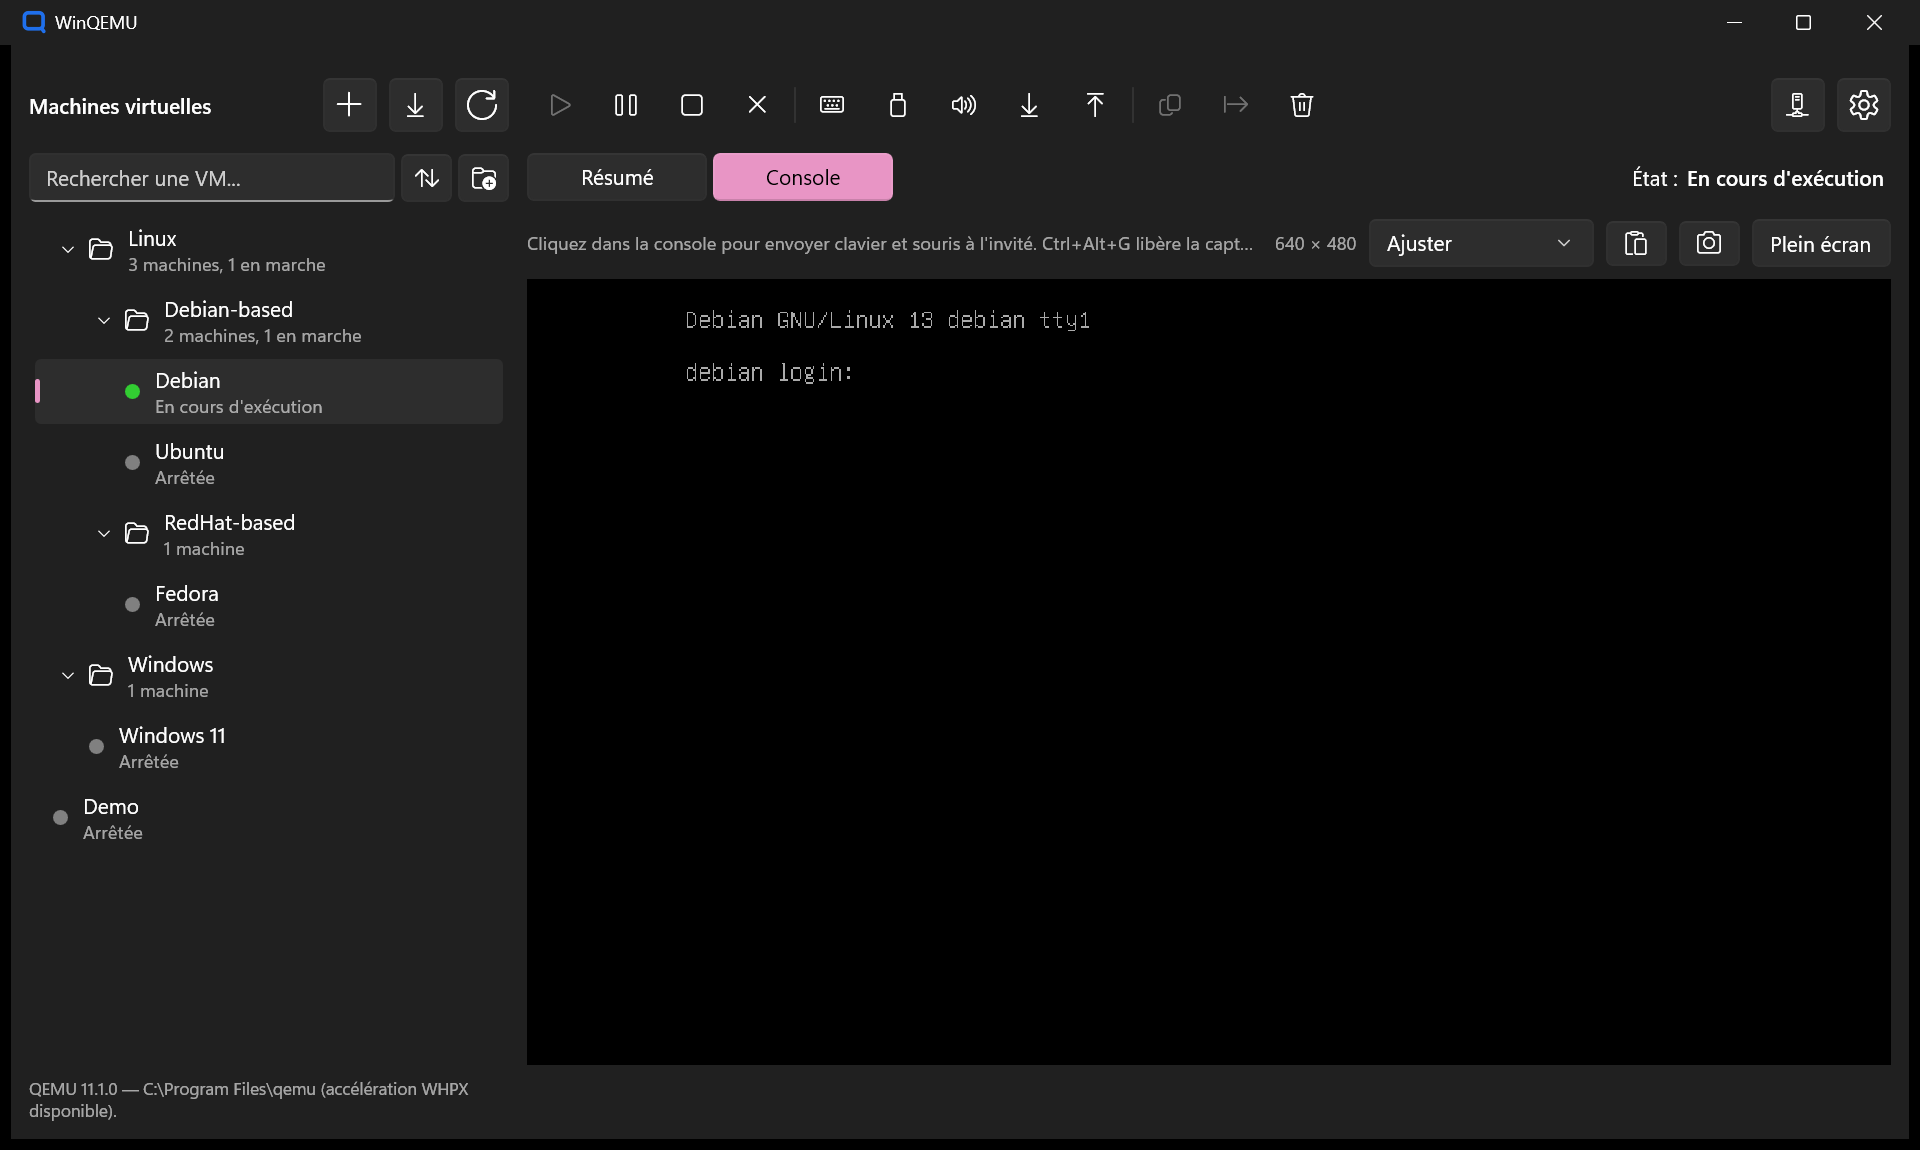
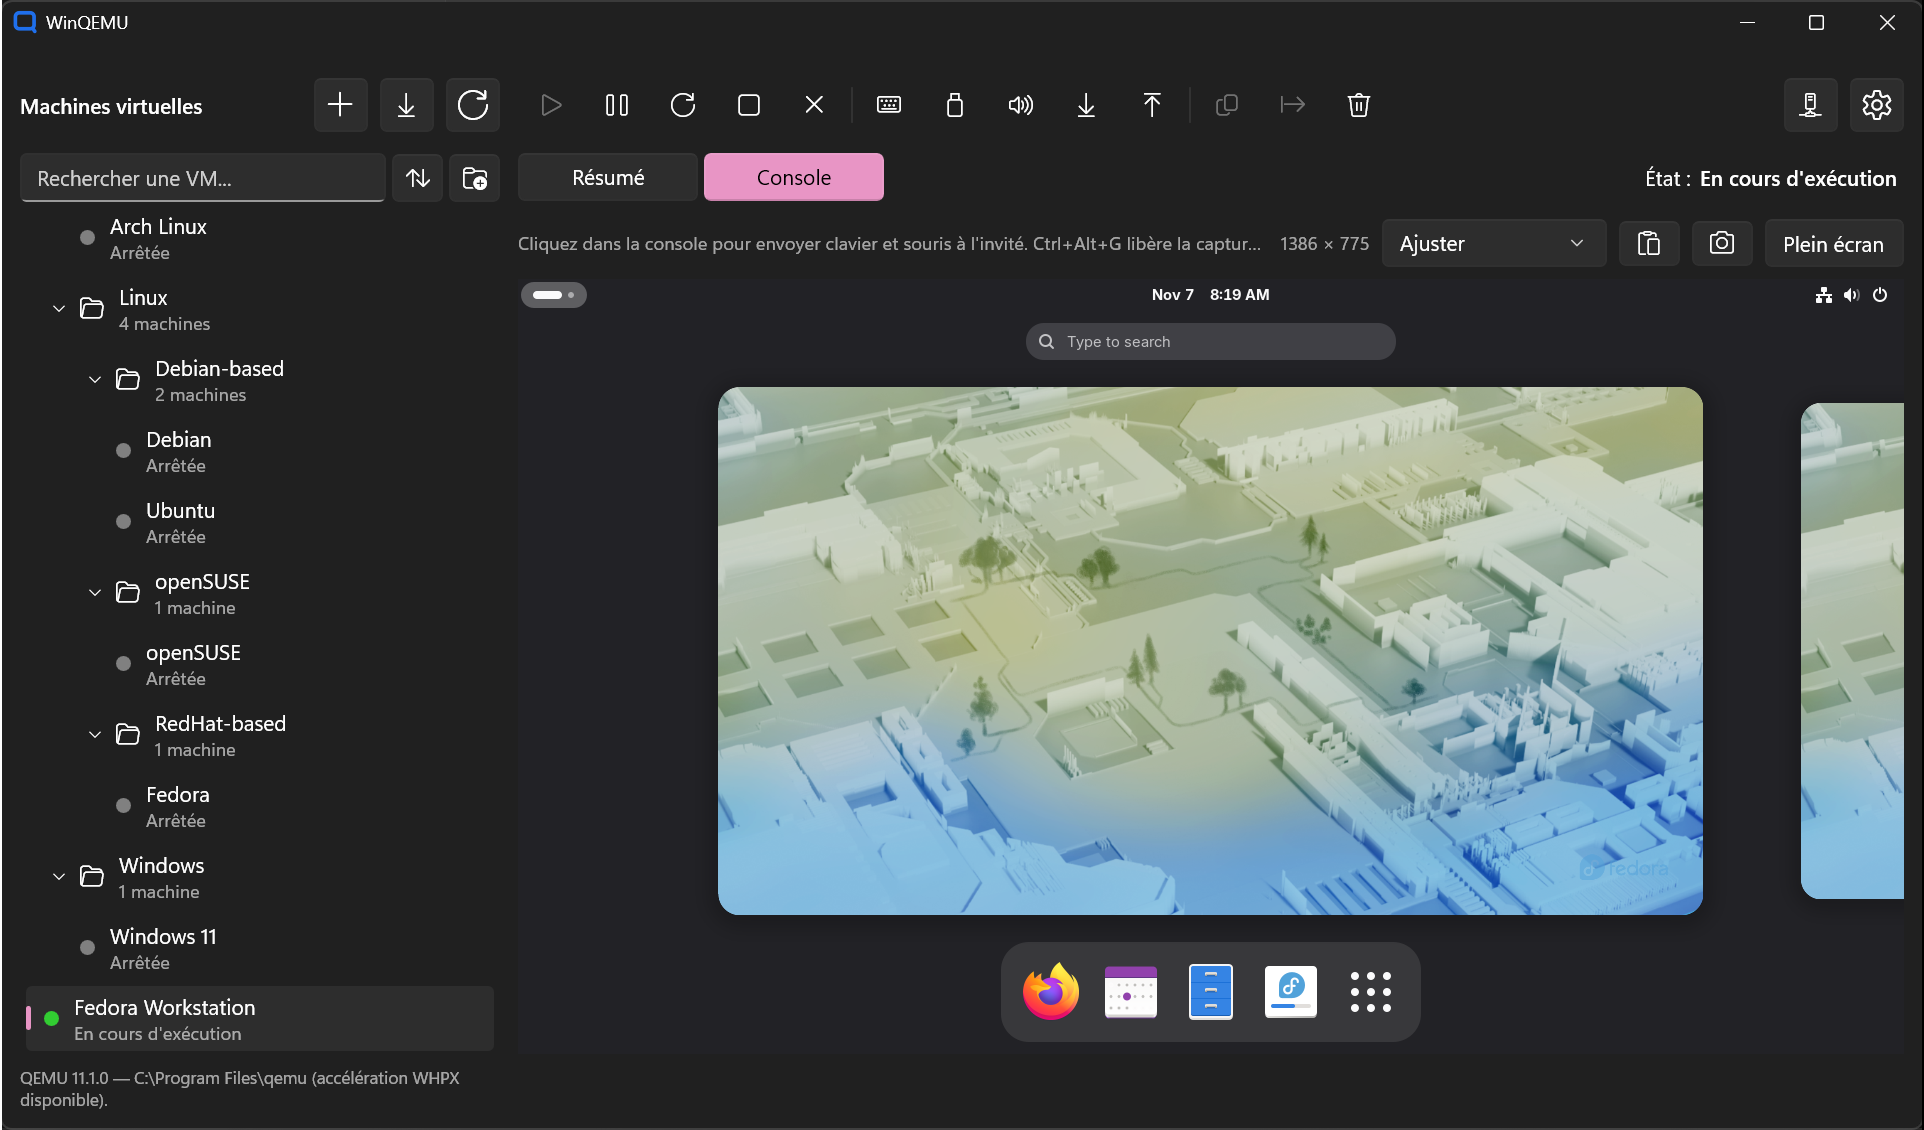
Refresh the screenshots and add the creation wizard
The summary and the console show the current toolbar and a GNOME
desktop; a new screenshot shows an unattended installation with the
choice of desktop, in the READMEs and as the Store's third image.

diff --git a/packaging/store/README.md b/packaging/store/README.md
@@ -35,7 +35,7 @@ What WinQEMU needs on the Store, prepared but not submitted. The background is i
    - Age ratings: the questionnaire (no user-generated content shared, no purchases).
    - Packages: the `.msix`.
    - Store listings: English (United States) and French (France), from the two listing files. Screenshots at least
-     1366 x 768: `docs/images/summary-*.png` and `console-*.png` (1920 x 1150); the snapshot tree (850 x 830) is too small.
+     1366 x 768: `docs/images/summary-*.png`, `console-*.png` and `wizard-*.png` (1924 x 1130); the snapshot tree (850 x 830) is too small.
      Rather than pasting: **Export listings**, then
      `pwsh ./packaging/store/New-ListingImport.ps1 -Export <exported .csv>`, then **Import listings**, **Import folder**,
      `artifacts\store\listing\WinQEMU-listing`. The export comes first because its Field, ID and Type columns must come

diff --git a/README.fr.md b/README.fr.md
@@ -31,6 +31,8 @@ l'accélération matérielle de la plateforme d'hyperviseur Windows (WHPX).
   - Debian, Fedora et openSUSE avec le bureau de votre choix (GNOME, KDE Plasma, Xfce, Cinnamon, MATE, LXQt), ou en
     console avec SSH ;
   - outils invités installés d'office.
+
+  ![L'assistant de création : une installation automatique, avec le choix du bureau](docs/images/wizard-fr.png)
 - **Invités Windows 11** : les contrôles du TPM et du Secure Boot, impossibles sous WHPX, sont levés à l'installation.
 - **Import** depuis VMware (`.vmx`), VirtualBox (`.vbox`), Hyper-V (`.vhdx`/`.vhd`) et OVF/OVA :
   - les disques sont convertis en qcow2 ;

diff --git a/README.md b/README.md
@@ -31,6 +31,8 @@ through the Windows Hypervisor Platform (WHPX).
   - Debian, Fedora and openSUSE with the desktop of your choice (GNOME, KDE Plasma, Xfce, Cinnamon, MATE, LXQt), or as a
     console with SSH;
   - guest tools installed automatically.
+
+  ![The creation wizard: an unattended installation, with the choice of desktop](docs/images/wizard-en.png)
 - **Windows 11 guests**: the TPM and Secure Boot checks, impossible under WHPX, are lifted at installation.
 - **Import** from VMware (`.vmx`), VirtualBox (`.vbox`), Hyper-V (`.vhdx`/`.vhd`) and OVF/OVA:
   - the disks are converted to qcow2;

diff --git a/packaging/store/listing.en.md b/packaging/store/listing.en.md
@@ -74,7 +74,7 @@ GNU General Public License, version 3: https://www.gnu.org/licenses/gpl-3.0.html
 
 ## Screenshots
 
-`docs/images/summary-en.png`, `docs/images/console-en.png`, `docs/images/snapshots-en.png`.
+`docs/images/summary-en.png`, `docs/images/console-en.png`, `docs/images/wizard-en.png`, `docs/images/snapshots-en.png`.
 
 ## Category
 

diff --git a/packaging/store/listing.fr.md b/packaging/store/listing.fr.md
@@ -74,4 +74,4 @@ Licence publique générale GNU, version 3 : https://www.gnu.org/licenses/gpl-3.
 
 ## Captures d'écran
 
-`docs/images/summary-fr.png`, `docs/images/console-fr.png`, `docs/images/snapshots-fr.png`.
+`docs/images/summary-fr.png`, `docs/images/console-fr.png`, `docs/images/wizard-fr.png`, `docs/images/snapshots-fr.png`.
